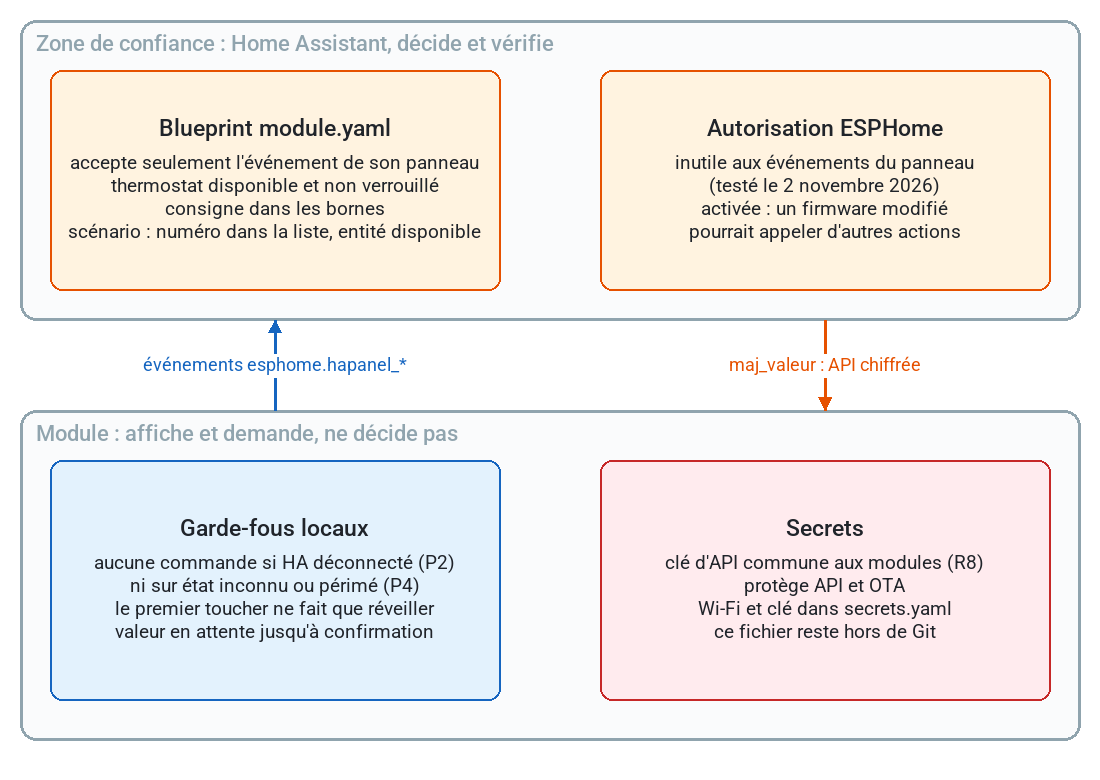
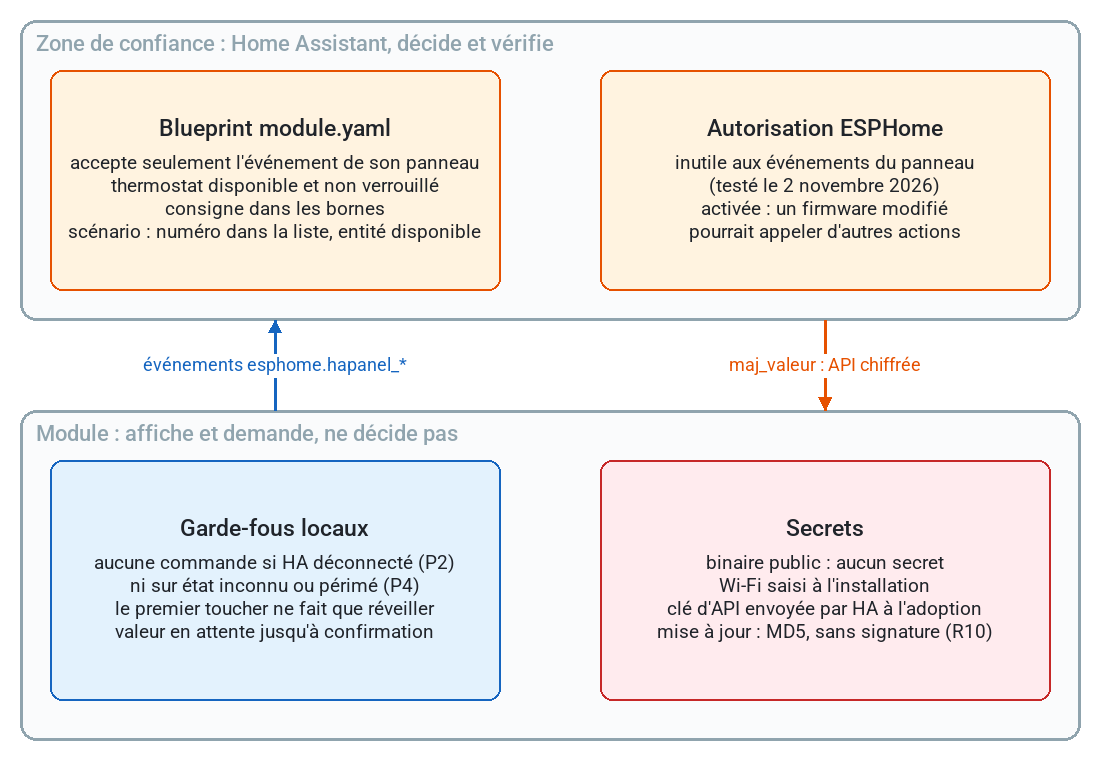
D037 revisee : binaire public pour tous les modules ; D039 et D040 acceptees
Cahier J4, J5, J11, J13 OK ; J9, J10 et J14 reportes au guide
d'installation (rang 3 du TODO). Schemas d'architecture regeneres
(contexte, packages, matrice, compilation, securite). VERSION 0.8.0.

Changed region(s): [[0.5873, 0.7077, 0.8964, 0.8308]]

diff --git a/tools/generer_schemas_architecture.py b/tools/generer_schemas_architecture.py
@@ -109,47 +109,57 @@ def sequence(nom, acteurs, etapes, largeur=1100):
 def contexte():
     s = S(1100, 760)
     s.zone(20, 20, 1060, 540, "Réseau local de la maison")
-    s.boite(50, 90, 290, 200, "Modules HAPanel", "un même binaire pour tous\nhapanel-xxxxxx (MAC)\nécran, tactile, LED, LDR\naucune entité connue", BLEU, B_BLEU)
+    s.boite(50, 90, 290, 200, "Modules HAPanel", "binaire public, sans secret\nhapanel-xxxxxx (MAC)\nécran, tactile, LED, LDR\naucune entité connue", BLEU, B_BLEU)
     s.boite(450, 90, 300, 200, "Home Assistant", "intégration ESPHome\nautomatisation par module\ndepuis le blueprint unique\nmodule.yaml", ORANGE, B_ORANGE)
     s.boite(840, 90, 210, 200, "Appareils", "thermostats\nscènes, scripts\ncalendriers\nmétéo, capteurs", VERT, B_VERT)
     s.fleche([(340, 150), (450, 150)], B_BLEU, "événements", (395, 128))
     s.fleche([(450, 230), (340, 230)], B_ORANGE, "maj_valeur", (395, 252))
     s.etiquette((395, 310), "API native chiffrée (Noise)", DOUX)
     s.fleche([(750, 190), (840, 190)], B_VERT, double=True)
-    s.boite(50, 400, 290, 130, "PC de développement", "ESPHome CLI figé\ntools/build.ps1", GRIS)
-    s.fleche([(195, 400), (195, 290)], DOUX, "OTA chiffrée\nou USB", (280, 345))
-    s.boite(450, 400, 210, 130, "secrets.yaml", "Wi-Fi, clé d'API\nignoré par Git", ROUGE, B_ROUGE)
+    s.boite(50, 400, 290, 130, "PC de l'atelier", "ESPHome CLI figé\nmodules de test seulement", GRIS)
+    s.fleche([(195, 400), (195, 290)], DOUX, "USB, ou OTA\n(atelier)", (280, 345))
+    s.boite(450, 400, 210, 130, "secrets.yaml", "atelier seulement\nignoré par Git", ROUGE, B_ROUGE)
     s.fleche([(450, 465), (340, 465)], B_ROUGE, "à la compilation", (395, 442))
-    s.boite(250, 620, 600, 110, "GitHub : cnuma/HAPanel", "YAML, blueprint et documentation : seule source de vérité", VIOLET, B_VIOLET)
+    s.boite(250, 620, 600, 110, "GitHub : cnuma/HAPanel", "source de vérité ; Actions publie binaire et manifeste\n(Releases), lus par l'entité Firmware de chaque module", VIOLET, B_VIOLET)
     s.fleche([(195, 620), (195, 530)], B_VIOLET, "git", (225, 590))
+    s.fleche([(250, 700), (32, 700), (32, 190), (50, 190)], B_VIOLET)
+    s.etiquette((140, 724), "mise à jour HTTPS", B_VIOLET)
     s.fleche([(700, 620), (700, 290)], B_VIOLET, "import du blueprint (URL)", (860, 590))
     s.sauver("01_contexte.png")
 
 
 def packages():
-    s = S(1100, 900)
-    s.boite(250, 20, 600, 80, "hapanel_banc.yaml", "production + debug mémoire + journaux DEBUG", GRIS)
-    s.fleche([(550, 100), (550, 150)])
-    s.boite(250, 150, 600, 80, "hapanel.yaml", "assemble les packages et les substitutions", BLEU, B_BLEU)
-    s.d.line([(550, 230), (550, 265)], fill=TRAIT, width=3)
-    s.d.line([(150, 265), (950, 265)], fill=TRAIT, width=3)
+    s = S(1100, 965)
+    s.boite(20, 20, 320, 80, "hapanel_banc.yaml", "atelier : + debug, journaux", GRIS)
+    s.boite(390, 20, 320, 80, "hapanel.yaml", "atelier : secrets compilés", GRIS)
+    s.boite(760, 20, 320, 80, "hapanel_public.yaml", "maison : aucun secret", VIOLET, B_VIOLET)
+    s.fleche([(340, 60), (390, 60)])
+    s.boite(20, 170, 320, 80, "acces_prive.yaml", "Wi-Fi, clé, OTA du PC", ROUGE, B_ROUGE)
+    s.boite(390, 170, 320, 80, "application.yaml", "toutes les fonctions", BLEU, B_BLEU)
+    s.boite(760, 170, 320, 80, "acces_public.yaml", "Improv, portail, mise à jour", VIOLET, B_VIOLET)
+    s.fleche([(450, 100), (180, 170)])
+    s.fleche([(550, 100), (550, 170)])
+    s.fleche([(840, 100), (660, 170)], B_VIOLET)
+    s.fleche([(920, 100), (920, 170)], B_VIOLET)
+    s.d.line([(550, 250), (550, 330)], fill=TRAIT, width=3)
+    s.d.line([(150, 330), (950, 330)], fill=TRAIT, width=3)
     for x in (150, 550, 950):
-        s.fleche([(x, 265), (x, 300)])
-    s.zone(20, 300, 260, 390, "Socle")
-    s.boite(40, 345, 220, 150, "base.yaml", "nœud, Wi-Fi, API,\nOTA, journaux,\nidentité de build", GRIS)
-    s.boite(40, 515, 220, 150, "hardware.yaml", "seul propriétaire\ndes broches et bus\n(G2)", GRIS)
-    s.zone(300, 300, 500, 390, "Écran : pages dans l'ordre d'inclusion")
-    pages = [("accueil", 320, 350), ("météo", 560, 350), ("planning", 320, 430), ("scénarios", 560, 430),
-             ("menu", 320, 510), ("réglages", 560, 510)]
+        s.fleche([(x, 330), (x, 365)])
+    s.zone(20, 365, 260, 390, "Socle")
+    s.boite(40, 410, 220, 150, "base.yaml", "nœud, plateforme,\njournaux, réglages,\nidentité de build", GRIS)
+    s.boite(40, 580, 220, 150, "hardware.yaml", "seul propriétaire\ndes broches et bus\n(G2)", GRIS)
+    s.zone(300, 365, 500, 390, "Écran : pages dans l'ordre d'inclusion")
+    pages = [("accueil", 320, 415), ("météo", 560, 415), ("planning", 320, 495), ("scénarios", 560, 495),
+             ("menu", 320, 575), ("réglages", 560, 575)]
     for t, x, y in pages:
         s.boite(x, y, 220, 65, t + ".yaml", "", ORANGE, B_ORANGE)
-    s.boite(320, 595, 220, 65, "lvgl.yaml", "", BLEU, B_BLEU)
-    s.etiquette((670, 627), "lvgl.yaml : À propos,\nnavigation, connexion.\nAccueil inclus d'abord :\npage de démarrage.", DOUX, taille=16)
-    s.zone(820, 300, 260, 390, "Services")
-    s.boite(840, 345, 220, 150, "liaison_ha.yaml", "action maj_valeur,\nétat et péremption\ndes valeurs", VERT, B_VERT)
-    s.boite(840, 515, 220, 150, "led_veille.yaml", "veille, retour accueil,\nLED, rétroéclairage,\nLDR", VERT, B_VERT)
-    s.zone(20, 720, 1060, 160, "Couplage par identifiants ESPHome")
-    s.etiquette((550, 800), "liaison_ha écrit les globals puis appelle accueil / meteo / planning / scenarios_rafraichir.\nLes pages lisent ces globals et ha_connecte_affiche. accueil_rafraichir calcule la couleur de la LED.\nled_veille lit ldr_tension (hardware) et pilote retroeclairage et page_accueil.", ENCRE, taille=20)
+    s.boite(320, 660, 220, 65, "lvgl.yaml", "", BLEU, B_BLEU)
+    s.etiquette((670, 692), "lvgl.yaml : À propos,\nnavigation, connexion.\nAccueil inclus d'abord :\npage de démarrage.", DOUX, taille=16)
+    s.zone(820, 365, 260, 390, "Services")
+    s.boite(840, 410, 220, 150, "liaison_ha.yaml", "action maj_valeur,\nétat et péremption\ndes valeurs", VERT, B_VERT)
+    s.boite(840, 580, 220, 150, "led_veille.yaml", "veille, retour accueil,\nLED, rétroéclairage,\nLDR", VERT, B_VERT)
+    s.zone(20, 785, 1060, 160, "Couplage par identifiants ESPHome")
+    s.etiquette((550, 865), "liaison_ha écrit les globals puis appelle accueil / meteo / planning / scenarios_rafraichir.\nLes pages lisent ces globals et ha_connecte_affiche. accueil_rafraichir calcule la couleur de la LED.\nled_veille lit ldr_tension (hardware) et pilote retroeclairage et page_accueil.", ENCRE, taille=20)
     s.sauver("02_packages.png")
 
 
@@ -262,17 +272,18 @@ def navigation():
 
 def build():
     s = S(1100, 900)
-    entrees = [(30, "VERSION", "0.6.0-dev"), (295, "Git", "SHA, +modif"), (560, "secrets.yaml", "hors dépôt"), (825, "requirements.txt", "ESPHome figé")]
+    version = (RACINE / "VERSION").read_text(encoding="utf-8").split()[0]
+    entrees = [(30, "VERSION", version), (295, "Git", "étiquette v…, SHA"), (560, "secrets.yaml", "atelier seulement"), (825, "requirements.txt", "ESPHome figé")]
     for x, t, d in entrees:
         s.boite(x, 30, 245, 100, t, d, GRIS)
-    s.boite(150, 210, 800, 110, "tools/build.ps1", "injecte version et git_sha par substitution, appelle esphome config / compile / upload / logs", BLEU, B_BLEU)
+    s.boite(150, 210, 800, 110, "GitHub Actions ou tools/build.ps1", "injectent version et git_sha ; Actions compile hapanel_public.yaml\nà chaque étiquette, build.ps1 les configurations de l'atelier", BLEU, B_BLEU)
     for x in (152, 417):
         s.fleche([(x, 130), (x if x > 200 else 200, 210)])
     s.fleche([(682, 130), (682, 210)])
     s.fleche([(947, 130), (900, 210)])
-    s.boite(150, 390, 800, 90, "firmware.bin", "code C++ généré, compilé par ESP-IDF", ORANGE, B_ORANGE)
+    s.boite(150, 390, 800, 90, "firmware.bin", "compilé par ESP-IDF ; public : Release avec manifeste (version, MD5)", ORANGE, B_ORANGE)
     s.fleche([(550, 320), (550, 390)])
-    s.boite(150, 550, 800, 90, "OTA chiffrée vers le module", "clé de l'API ; bloc secteur 1 A", VIOLET, B_VIOLET)
+    s.boite(150, 550, 800, 90, "Maison : entité Firmware de HA", "le module télécharge depuis GitHub ; atelier : OTA chiffrée du PC ; USB en secours", VIOLET, B_VIOLET)
     s.fleche([(550, 480), (550, 550)])
     s.boite(150, 710, 370, 150, "Nouveau binaire", "« Boot seems successful »\naprès 60 s\nversion et SHA relus", VERT, B_VERT)
     s.boite(580, 710, 370, 150, "Rollback du bootloader", "échec de démarrage :\nretour silencieux au binaire\nprécédent (R7)", ROUGE, B_ROUGE)
@@ -288,7 +299,7 @@ def securite():
     s.boite(600, 70, 450, 220, "Autorisation ESPHome", "inutile aux événements du panneau\n(testé le 2 novembre 2026)\nactivée : un firmware modifié\npourrait appeler d'autres actions", ORANGE, B_ORANGE)
     s.zone(20, 410, 1060, 330, "Module : affiche et demande, ne décide pas")
     s.boite(50, 460, 450, 240, "Garde-fous locaux", "aucune commande si HA déconnecté (P2)\nni sur état inconnu ou périmé (P4)\nle premier toucher ne fait que réveiller\nvaleur en attente jusqu'à confirmation", BLEU, B_BLEU)
-    s.boite(600, 460, 450, 240, "Secrets", "clé d'API commune aux modules (R8)\nprotège API et OTA\nWi-Fi et clé dans secrets.yaml\nce fichier reste hors de Git", ROUGE, B_ROUGE)
+    s.boite(600, 460, 450, 240, "Secrets", "binaire public : aucun secret\nWi-Fi saisi à l'installation\nclé d'API envoyée par HA à l'adoption\nmise à jour : MD5, sans signature (R10)", ROUGE, B_ROUGE)
     s.fleche([(275, 410), (275, 320)], B_BLEU, "événements esphome.hapanel_*", (275, 365))
     s.fleche([(825, 320), (825, 410)], B_ORANGE, "maj_valeur : API chiffrée", (825, 365))
     s.sauver("13_securite.png")
@@ -405,7 +416,8 @@ def yaml_matrice():
                       ("pages/menu", ORANGE, B_ORANGE), ("pages/reglages", ORANGE, B_ORANGE),
                       ("lvgl", BLEU, B_BLEU),
                       ("liaison_ha", VERT, B_VERT), ("led_veille", VERT, B_VERT),
-                      ("message_accueil", ORANGE, B_ORANGE)]
+                      ("message_accueil", ORANGE, B_ORANGE),
+                      ("acces_prive", ROUGE, B_ROUGE), ("acces_public", VIOLET, B_VIOLET)]
     lignes, autres = [], []
     for chemin, fond, bord in roles_fichiers:
         texte = (RACINE / "packages" / f"{chemin}.yaml").read_text(encoding="utf-8")
@@ -415,9 +427,18 @@ def yaml_matrice():
         if hors:
             autres.append(f"{', '.join(hors)} ({nom})")
         lignes.append((nom, " ".join(blocs + (["autres"] if hors else [])), fond, bord))
-    s = S(1260, 950)
+    # Liste « autres » coupee en lignes d'au plus 115 caracteres.
+    lignes_autres, ligne = [], "autres : "
+    for i, a in enumerate(autres):
+        morceau = a + (" ; " if i < len(autres) - 1 else ".")
+        if len(ligne) + len(morceau) > 115:
+            lignes_autres.append(ligne.rstrip())
+            ligne = ""
+        ligne += morceau
+    lignes_autres.append(ligne)
     x0, y0, lc, hl = 255, 110, 76, 52
     yf = y0 + len(lignes) * hl
+    s = S(1260, int(yf + 190 + 27 * len(lignes_autres)))
     xf = x0 + len(colonnes) * lc
     # Axes : titre des colonnes centre au-dessus d'elles, titre des lignes
     # vertical a leur gauche, centre sur leur hauteur ; un trait montre l'etendue.
@@ -443,13 +464,15 @@ def yaml_matrice():
     s.d.line([(70, yf), (xf, yf)], fill="#CFD8DC", width=1)
     # Legende : une case = le fichier declare ce bloc ; couleur = role du fichier.
     s.d.text((20, yf + 40), "Légende : une case = ce fichier déclare ce bloc. La couleur donne le rôle du fichier :", fill=ENCRE, font=f(19, True), anchor="lm")
-    roles = [(GRIS, "#607D8B", "socle : carte, Wi-Fi, API"), (ORANGE, B_ORANGE, "écran affiché"),
-             (BLEU, B_BLEU, "graphisme commun, navigation"), (VERT, B_VERT, "service sans écran")]
-    for cx, (fond, bord, texte) in zip([30, 320, 530, 880], roles):
-        s.d.rounded_rectangle([cx, yf + 68, cx + 46, yf + 100], 7, fill=fond, outline=bord, width=2)
-        s.d.text((cx + 56, yf + 84), texte, fill=ENCRE, font=f(18), anchor="lm")
+    roles = [(GRIS, "#607D8B", "socle : nœud, carte"), (ORANGE, B_ORANGE, "écran affiché"),
+             (BLEU, B_BLEU, "graphisme commun"), (VERT, B_VERT, "service sans écran"),
+             (ROUGE, B_ROUGE, "accès atelier"), (VIOLET, B_VIOLET, "accès public")]
+    for cx, (fond, bord, texte) in zip([30, 265, 450, 680, 900, 1080], roles):
+        s.d.rounded_rectangle([cx, yf + 68, cx + 40, yf + 100], 7, fill=fond, outline=bord, width=2)
+        s.d.text((cx + 48, yf + 84), texte, fill=ENCRE, font=f(17), anchor="lm")
     s.d.text((20, yf + 135), "Abréviations : subst. = substitutions ; tactile = touchscreen.", fill=DOUX, font=f(17), anchor="lm")
-    s.d.text((20, yf + 162), "autres : " + " ; ".join(autres) + ".", fill=DOUX, font=f(17), anchor="lm")
+    for i, t in enumerate(lignes_autres):
+        s.d.text((20, yf + 162 + 27 * i), t, fill=DOUX, font=f(17), anchor="lm")
     s.sauver("20_yaml_matrice.png")
 
 

diff --git a/docs/CAHIER_DE_TESTS.md b/docs/CAHIER_DE_TESTS.md
@@ -42,6 +42,7 @@ aucun. Chaque ligne se coche **OK** ou **KO** ; en cas de KO, noter ce qui a ét
 | 5 novembre 2026 | `v0.8.0-dev.1`, puis local `0.8.0-dev.3-usb` | J6 | **J6 KO avec dev.1** : entité Firmware « À jour », versions vides ; au démarrage « HTTP_CLIENT: Out of buffer » puis « Failed to fetch manifest » ; « Mettre à jour l'entité » de HA ne relance pas la vérification | `buffer_size_tx: 2048` ; binaire local flashé par USB : démarrage sans erreur. Publication `v0.8.0-dev.3`, J6 à refaire |
 | 5 novembre 2026 | `0.8.0-dev.3-usb` → `v0.8.0-dev.4-wifi` (`670e30e`) | J6, J7, J8 | **J6 OK** : HA juge `0.8.0-dev.3-usb` et `0.8.0-dev.3` incomparables (« À jour », `update.install` refusé) ; avec `0.8.0-dev.4-wifi`, « Mise à jour disponible », **Mettre à jour** : téléchargement par Wi-Fi depuis GitHub en 16 s, « Update complete », redémarrage, Wi-Fi et HA retrouvés sans rien ressaisir, À propos en `0.8.0-dev.4-wifi`. Aucune erreur au journal. Accueil « Intérieur » : blueprint de `main`, sans la clé `piece` | Versions sans suffixe (§ 1 de `DEPLOIEMENT_PUBLIC.md`). Le binaire est lu par `releases/latest/…` : une Release publiée entre la vérification et l'installation ferait échouer le MD5 (sans dégât) ; lien vers l'étiquette dans le manifeste, corrigé dans `publication.yml` (effet à la prochaine Release). J7 et J8 OK, constatés par le propriétaire |
 | 5 novembre 2026 | `v0.8.0-dev.4-wifi`, blueprint de la branche | J12 | **J12 OK** : blueprint importé depuis la branche, « Nom de la pièce » vide : l'accueil affiche « Cuisine » | — |
+| 5 novembre 2026 | `v0.8.0-dev.4-wifi` | J4, J5, J11, J13 | **OK** : clé enregistrée dans le module et dans HA, gardée après la mise à jour ; coupure d'alimentation sans rien ressaisir ; nom long coupé proprement ; depuis le PC, port de l'OTA (3232) fermé, API (6053) ouverte | J9, J10 et J14 reportés au guide d'installation, qui passera par ces écrans |
 | 4 novembre 2026 | `4091687` | I | Titres visibles. Ligne du haut **bien plus fréquente à 20 MHz**, pas sur toute la largeur ; point du milieu qui clignote quand le bouton maison est affiché ; ligne au passage du Menu à une autre page | Diagnostic au banc : à l'écran immobile, aucun envoi de LVGL, donc pas un dessin du programme. Idée du propriétaire retenue : la dernière rangée de pixels réapparaît sur la première (le point est dans l'axe du bouton maison ; la ligne vient avec le redessin complet, dont le dernier morceau va jusqu'à la rangée 319). 40 MHz rétabli ; barre du haut et barre du bas décalées de 2 px des bords (I11 à refaire) |
 | 4 novembre 2026 | `a3a8864` | I | Vidéo : **titre de la page absent** de la barre ; ligne claire fugace sur la première ligne de l'écran (une image, environ toutes les 4 s) et point fixe en haut au milieu | Titre : la couche commune n'hérite pas du texte blanc des pages, texte sombre sur gris ; corrigé (couleur sur la barre). Ligne : hypothèse d'écriture parasite sur le bus de l'écran, essai à 20 MHz au lieu de 40 (I11) |
 | 4 novembre 2026 | `2f00f00` | I | Premier aperçu : fond bleu autour du ☰ disgracieux, ☰ préféré à gauche avant le titre ; **ligne blanche qui clignote en haut de l'écran** | Corrigé (`a3a8864`) : ☰ à gauche, sans fond. Ligne blanche : à décrire (quand, quelle page, toute la largeur ?) |
@@ -225,7 +226,7 @@ ensuite l'automatisation du module et l'enregistrer.
 | I11 | Observer 1 min la barre du haut sur Réglages, sur l'accueil, puis passer du Menu à chaque page | Aucune ligne ni point parasite en haut de l'écran (2 rangées noires en haut et en bas) | `feature/barre-etat` (fusionnée) | OK 4 nov. |
 | I12 | Toucher le ☰ dix fois, vite, un peu à côté de l'icône (dessous, à droite) | Le Menu s'ouvre à chaque fois | `feature/barre-etat` (fusionnée) | OK 4 nov. |
 
-## J — Déploiement public, maquette (D039)
+## J — Déploiement public (D039)
 
 Binaires publiés par GitHub (`hapanel_public.yaml`), sur une carte qui n'est pas le
 module de banc. Procédure : `docs/DEPLOIEMENT_PUBLIC.md`.
@@ -235,13 +236,14 @@ module de banc. Procédure : `docs/DEPLOIEMENT_PUBLIC.md`.
 | J1 | Publication : pousser l'étiquette `v0.8.0-dev.1` (§ 1 de `DEPLOIEMENT_PUBLIC.md`) | Release créée, marquée Latest, avec `hapanel-factory.bin`, `hapanel-ota.bin` et `manifest.json` | `feature/poc-deploiement` | OK 5 nov. |
 | J2 | Nouvelle carte : première installation par web.esphome.io, Wi-Fi par Improv (§ 2) | Le module démarre, l'écran d'accueil s'affiche, le module rejoint le Wi-Fi | `feature/poc-deploiement` | OK 5 nov. |
 | J3 | Adoption dans HA (§ 3) | Appareil découvert ; **aucune clé demandée** (sinon noter le message) ; entités présentes, dont « Firmware » et « Version » (`0.8.0-dev.1 (sha)`) | `feature/poc-deploiement` | OK 5 nov. |
-| J4 | Après J3, journaux du module ou une seconde adoption depuis un autre HA | La clé est enregistrée (« Noise PSK saved ») ; une connexion sans cette clé est refusée | `feature/poc-deploiement` | |
-| J5 | Couper et rétablir l'alimentation | Le module rejoint le Wi-Fi et HA sans rien ressaisir | `feature/poc-deploiement` | |
+| J4 | Après J3, journaux du module ou une seconde adoption depuis un autre HA | La clé est enregistrée (« Noise PSK saved ») ; une connexion sans cette clé est refusée | `feature/poc-deploiement` | OK 5 nov. |
+| J5 | Couper et rétablir l'alimentation | Le module rejoint le Wi-Fi et HA sans rien ressaisir | `feature/poc-deploiement` | OK 5 nov. |
 | J6 | Publier `v0.8.0-dev.3`, redémarrer le module, puis dans HA : entité Firmware › Installer (§ 4) | « Mise à jour disponible 0.8.0-dev.3 » ; téléchargement depuis GitHub sans erreur ; redémarrage | `feature/poc-deploiement` | OK 5 nov. (avec `0.8.0-dev.4-wifi`) |
 | J7 | Après J6 | Version `0.8.0-dev.2` ; Wi-Fi et HA reconnectés sans rien ressaisir ; réglages du module (LED, intensité) conservés | `feature/poc-deploiement` | OK 5 nov. (avec `0.8.0-dev.4-wifi`) |
 | J8 | Pendant J6, journaux par USB ; page À propos avant et après | Pas de manque de mémoire ni de redémarrage pendant le téléchargement ; noter la mémoire libre (G6) | `feature/poc-deploiement` | OK 5 nov. |
-| J9 | Nouvelle carte sans Improv : point d'accès `hapanel-xxxxxx` depuis un téléphone (§ 2) | Portail captif, choix du réseau, le module rejoint le Wi-Fi | `feature/poc-deploiement` | |
-| J10 | Laisser une carte effacée sans Wi-Fi 16 min, puis tenter le point d'accès | Point d'accès fermé après 15 min ; rouvert après une coupure d'alimentation | `feature/poc-deploiement` | |
-| J11 | Depuis le PC, `esphome upload` vers un module public par le réseau | Refusé : le binaire public n'a pas d'OTA depuis un PC | `feature/poc-deploiement` | |
+| J9 | Nouvelle carte sans Improv : point d'accès `hapanel-xxxxxx` depuis un téléphone (§ 2) | Portail captif, choix du réseau, le module rejoint le Wi-Fi | guide d'installation (rang 3 du TODO) | |
+| J10 | Laisser une carte effacée sans Wi-Fi 16 min, puis tenter le point d'accès | Point d'accès fermé après 15 min ; rouvert après une coupure d'alimentation | guide d'installation (rang 3 du TODO) | |
+| J11 | Depuis le PC, `esphome upload` vers un module public par le réseau | Refusé : le binaire public n'a pas d'OTA depuis un PC | `feature/poc-deploiement` | OK 5 nov. (port 3232 fermé, API 6053 ouverte) |
 | J12 | Après J6 : réimporter le blueprint depuis la branche (`CONFIGURATION.md` § 2), laisser « Nom de la pièce » vide, enregistrer l'automatisation | L'accueil affiche la zone du thermomètre (« Cuisine ») au lieu de « Séjour » | `feature/poc-deploiement` | OK 5 nov. |
-| J13 | Saisir « Chambre des parents » dans « Nom de la pièce » | « Chambre des pa… » ou le nom coupé proprement, sans chevaucher « indisponible » à droite | `feature/poc-deploiement` | |
+| J13 | Saisir « Chambre des parents » dans « Nom de la pièce » | « Chambre des pa… » ou le nom coupé proprement, sans chevaucher « indisponible » à droite | `feature/poc-deploiement` | OK 5 nov. |
+| J14 | Module de production : reflasher le binaire public par USB (`hapanel-factory.bin`), Wi-Fi par Improv, puis HA | Le module retrouve HA ; si HA demande une clé ou crée un nouvel appareil, le noter et réassocier l'automatisation du module | guide d'installation (rang 3 du TODO) | |

diff --git a/docs/TODO.md b/docs/TODO.md
@@ -15,10 +15,10 @@ Liste unique du reste à faire (G14).
 | Prio | Sujet | Dépend de | Branche | Pourquoi à ce rang |
 |---|---|---|---|---|
 | 1 | Message d'accueil : confirmer B3 (même texte deux fois) ; décider s'il faut empêcher deux fois de suite le même message (entrée texte dans HA, procédure G11) | Cahier B3 refait | à créer | Ne touche que le blueprint de la maison ; à trancher avant de l'enrichir (rangs 9 et 11). |
-| 2 | Sécurité : décider de laisser ou non l'autorisation des actions HA sur chaque module (surface plus petite, `08`) ; évaluer l'usurpation de `device_id` (un firmware modifié, avec la clé d'API, pourrait se faire passer pour un autre panneau) et l'inscrire au `08` | — | `docs/…` | À décider avant d'ajouter des commandes (infrarouge) et la mise à jour par HA (rang 3), sinon elles seraient à reprendre. |
-| 3 | Mises à jour du parc depuis HA (D037, option C) : **maquette en cours (D039)** : binaire public sans secret publié par GitHub Actions, entité « Firmware », Wi-Fi saisi à l'installation, clé reçue de HA ; mise à jour par Wi-Fi depuis HA validée le 5 novembre 2026 (J6 à J8) ; restent J4, J5, J9 à J11, J13. Ensuite : réviser D037 (hébergement GitHub), mode d'installation (bouton ou automatisation), schémas d'architecture | Rang 2 (surface de la mise à jour) | `feature/poc-deploiement` | À installer avant de multiplier les modules : l'infrarouge et la suite se déploieront par ce chemin. |
-| 4 | Mise à jour depuis l'écran (demande du propriétaire du 5 novembre 2026, décision à rédiger) : 1. icône violette dans la barre d'état quand une mise à jour est disponible ; 2. bouton « Rechercher une mise à jour » sur la page À propos ; 3. recherche chaque nuit à 3 h (au lieu de toutes les 6 h ; heure de HA) ; 4. bouton violet dans le Menu pour lancer la mise à jour, avec confirmation puis message « Mise à jour en cours, module indisponible ». Binaire public seulement (entité `maj_firmware`) : le binaire privé n'affiche rien | Rang 3 (maquette J6 validée le 5 novembre 2026) | `feature/poc-deploiement` ou suivante | Complète l'installation sans HA ; place dans la barre à vérifier (entre le titre et la disquette). |
-| 5 | Projet publiable (D038) : cadrer avec le propriétaire la licence (dépôt déjà public, sans licence), la relecture de la doc (retirer le personnel), la page d'installation, l'adoption par chaque utilisateur ; puis Wi-Fi saisi à l'installation (Improv par USB, portail captif), binaire générique sans secret publié sur GitHub | Rang 3 (même chemin de mise à jour) | à créer | Orientation du projet : à cadrer tôt pour que l'infrarouge et la suite ne mettent rien de propre à la maison dans le firmware. |
+| 2 | Sécurité : décider de laisser ou non l'autorisation des actions HA sur chaque module (surface plus petite, `08`) ; évaluer l'usurpation de `device_id` (un firmware modifié, avec la clé d'API, pourrait se faire passer pour un autre panneau) et l'inscrire au `08` | — | `docs/…` | À décider avant d'ajouter des commandes (infrarouge) et la mise à jour par HA (D039, faite : surface déjà au `08`), sinon elles seraient à reprendre. |
+| 3 | Guide d'installation pour débutant (demande du propriétaire du 5 novembre 2026) : remplacer la procédure de technicien par un pas à pas avec une capture d'écran précise à chaque étape (téléchargement, web.esphome.io, Wi-Fi par Improv, adoption dans HA, blueprint, mise à jour) ; captures prises par le propriétaire en reflashant le premier module de production (cahier J14), recadrées sans nom de réseau, adresse ni clé (G9) ; tester aussi le point d'accès (J9, J10) | — | `docs/guide-installation` | Le premier module de production passe au binaire public (D037 révisée) : les captures se prennent à ce moment. Condition de la publication (rang 5). |
+| 4 | Mise à jour depuis l'écran (demande du propriétaire du 5 novembre 2026, décision à rédiger) : 1. icône violette dans la barre d'état quand une mise à jour est disponible ; 2. bouton « Rechercher une mise à jour » sur la page À propos ; 3. recherche chaque nuit à 3 h (au lieu de toutes les 6 h ; heure de HA) ; 4. bouton violet dans le Menu pour lancer la mise à jour, avec confirmation puis message « Mise à jour en cours, module indisponible ». Binaire public seulement (entité `maj_firmware`) : le binaire privé de l'atelier n'affiche rien | D039 (acceptée) | à créer | Complète l'installation sans HA ; place dans la barre à vérifier (entre le titre et la disquette). |
+| 5 | Projet publiable (D038) : cadrer avec le propriétaire la licence (dépôt déjà public, sans licence), la relecture de la doc (retirer le personnel), l'adoption par chaque utilisateur ; binaire générique, Wi-Fi saisi à l'installation et publication sur GitHub faits (D039) | Rang 3 (guide d'installation) | à créer | Orientation du projet : à cadrer tôt pour que l'infrarouge et la suite ne mettent rien de propre à la maison dans le firmware. |
 | 6 | Indépendance du matériel (demande du propriétaire du 5 novembre 2026, décision à rédiger ; l'ESP32-2432S024C de 2,4 pouces semble ne plus être fabriqué) : 1. interface construite selon la taille de l'écran déclarée dans les paramètres, et non plus calée sur 320 × 240 ; 2. GPIO configurables : écran, tactile, diode infrarouge, LED d'état, LDR ; 3. pilotes d'écran et de tactile configurables ; 4. au total, un firmware indépendant de la carte. Point à trancher : ESPHome fixe pilotes et broches à la compilation, donc « paramètres » veut dire un fichier de carte par modèle (substitutions et package), et un binaire public par modèle de carte | Rang 5 (cadrage du public visé) ; choix des nouvelles cartes par le propriétaire | à créer | Avant l'infrarouge, dont la broche doit déjà être un paramètre ; chaque page écrite d'ici là serait sinon à reprendre. |
 | 7 | Infrarouge (P5) : 1. marque et modèle exacts des clims (Midea ou compatible pour la chambre des parents) et emplacement des panneaux ; 2. schéma de la diode sur GPIO22 (transistor, résistances, 3,3 V, connecteur avec GND) ; 3. code (`remote_transmitter`, `midea_ir`, repris de `clim-parents`) | Rang 2 ; rang 6 (broche en paramètre) ; réponses du propriétaire au point 1 | à créer | Plus gros chantier : sur une base stable et des règles de sécurité fixées. Le matériel avant le code. En attendant les réponses, passer au rang 8. |
 | 8 | Documentation technique, lots 3 à 6 : `lvgl.md`, `liaison_ha.md` ; `led_veille.md`, `message_accueil.md` ; `pages/` ; blueprints (avec extension du script de contrôle) | Rang 6 (pages reprises) | `docs/…` | Après l'indépendance du matériel, qui modifie toutes les pages. |
@@ -129,3 +129,12 @@ Liste unique du reste à faire (G14).
 - [x] Mise à jour depuis l'écran demandée le 5 novembre 2026 : rang 4.
 - [x] Indépendance du matériel demandée le 5 novembre 2026 (2,4 pouces introuvable) :
       rang 6.
+
+### P7 — Déploiement public (5 novembre 2026)
+
+- [x] Binaire public sans secret publié par GitHub Actions, mise à jour par Wi-Fi
+      depuis l'entité « Firmware » de HA, nom de la pièce par le blueprint (D039,
+      D040) : cahier J OK (J9, J10, J14 au rang 3), fusionné dans `main` le
+      5 novembre 2026 ; `VERSION` 0.8.0.
+- [x] D037 révisée : binaire public pour tous les modules de la maison, USB en
+      secours ; configurations privées pour l'atelier seulement.

diff --git a/docs/ARCHITECTURE.md b/docs/ARCHITECTURE.md
@@ -53,9 +53,9 @@ le tactile et le réseau (G1). Ces lambdas restent du C++, inséré tel quel dan
 
 | Fichier | Lignes | Responsabilité |
 |---|---|---|
-| `hapanel.yaml` | 17 | Production : substitutions, fonctions (`application`) et accès privé |
-| `hapanel_banc.yaml` | 33 | Banc : production, plus mémoire mesurée, journaux DEBUG et dossier de compilation propre |
-| `hapanel_public.yaml` | 23 | Binaire public sans secret : fonctions et accès public (D039, maquette) |
+| `hapanel.yaml` | 17 | Atelier (modules de test) : substitutions, fonctions (`application`) et accès privé |
+| `hapanel_banc.yaml` | 33 | Banc de l'atelier : `hapanel.yaml`, plus mémoire mesurée, journaux DEBUG et dossier de compilation propre |
+| `hapanel_public.yaml` | 23 | Modules de la maison : binaire public sans secret, fonctions et accès public (D039, D037 révisée) |
 | `packages/application.yaml` | 19 | Liste ordonnée des fichiers de fonctions, commune aux configurations |
 | `packages/acces_prive.yaml` | 15 | Wi-Fi, clé de l'API et OTA depuis le PC, lus dans `secrets.yaml` |
 | `packages/acces_public.yaml` | 47 | Wi-Fi saisi à l'installation, clé reçue de HA, mises à jour depuis GitHub |
@@ -71,7 +71,7 @@ le tactile et le réseau (G1). Ces lambdas restent du C++, inséré tel quel dan
 | `packages/pages/scenarios.yaml` | 365 | Boutons et lancement |
 | `packages/pages/menu.yaml` | 126 | Tuiles de navigation |
 | `packages/pages/reglages.yaml` | 216 | Réglages de la LED et de l'écran, synchronisés avec HA, cadenas si imposés (D031) |
-| `secrets.yaml` | | Wi-Fi et clé d'API des modules privés, hors de Git (G9) |
+| `secrets.yaml` | | Wi-Fi et clé d'API des modules de l'atelier, hors de Git (G9) |
 
 **Pour lire le projet :** `hapanel.yaml`, puis `liaison_ha.yaml`, puis `scenarios.yaml`, qui est la
 page la plus simple à commander. `accueil.yaml` est la plus dense et se lit en dernier.
@@ -588,18 +588,18 @@ message au toucher, après 3 minutes ou à la déconnexion de HA (P2).
 
 ![Chaîne de compilation](images/architecture/12_build.png)
 
-- **Identité :** `tools/build.ps1` injecte `VERSION` et le SHA. Le suffixe `+modif` signale un
+- **Identité :** GitHub Actions (binaire public) et `tools/build.ps1` (atelier) injectent `VERSION` et le SHA. Le suffixe `+modif` signale un
   binaire qui ne correspond à aucun commit et ne vaut pas validation (G5).
 - **Version figée :** ESPHome est fixé par `requirements.txt` (D005).
 - **Vérification :** après une OTA, relire la version et le SHA, puis attendre « Boot seems
   successful », car un échec peut ramener sans bruit au binaire précédent.
 - **Blueprint :** `source_url` pointe sur `main`. Il suit Git et non le firmware : un changement de
   clés demande de mettre à jour les deux.
-- **Dossier de compilation :** production `.esphome/build/hapanel`, banc `hapanel_banc`, public
+- **Dossier de compilation :** atelier `.esphome/build/hapanel`, banc `hapanel_banc`, public
   `hapanel_public` : passer de l'un à l'autre ne recompile pas tout.
-- **Binaire public (D039, maquette) :** une étiquette `v<version>` lance GitHub Actions, qui publie
-  une Release (binaire complet, binaire de mise à jour, manifeste) ; les modules publics la
-  proposent dans HA. Procédure : [DEPLOIEMENT_PUBLIC.md](DEPLOIEMENT_PUBLIC.md).
+- **Binaire public (D039), mode de déploiement de tous les modules de la maison (D037 révisée) :**
+  une étiquette `v<version>` lance GitHub Actions, qui publie une Release (binaire complet, binaire
+  de mise à jour, manifeste) ; chaque module la propose dans HA (entité Firmware). USB en secours. Procédure : [DEPLOIEMENT_PUBLIC.md](DEPLOIEMENT_PUBLIC.md).
 
 ## Sécurité
 
@@ -607,7 +607,7 @@ message au toucher, après 3 minutes ou à la déconnexion de HA (P2).
 
 | Risque | État |
 |---|---|
-| Clé d'API commune aux modules (R8) | Accepté : la clé d'un module ouvre l'API et l'OTA de tous |
+| Clé d'API commune aux modules de l'atelier (R8) | Accepté : la clé d'un module de test ouvre l'API et l'OTA des autres ; binaire public : une clé par module, donnée par HA |
 | `maj_valeur` accessible à tout détenteur de la clé | Peut changer l'affichage, pas commander un appareil |
 | Réglages de la LED modifiables depuis HA (D027) | Peuvent éteindre la LED ou son alerte ; l'écran montre toujours l'état réel |
 | Message d'accueil (D028) | Texte borné à 240 octets, sans commande ; fermé à la déconnexion de HA |

diff --git a/docs/codex/02_DECISIONS.md b/docs/codex/02_DECISIONS.md
@@ -798,8 +798,8 @@ qui cite la précédente.
 
 ## D037 — Mises à jour du parc depuis Home Assistant
 
-- Date : 4 novembre 2026 — Statut : proposé ; option C choisie par le propriétaire
-  (HAP-R096), à concevoir et tester avant tout code.
+- Date : 4 novembre 2026 — Statut : accepté, **révisé le 5 novembre 2026** (voir
+  « Révision » en fin de décision) ; option C choisie par le propriétaire (HAP-R096).
 - Contexte : le propriétaire prévoit plusieurs modules. Aujourd'hui chaque mise à
   jour part du PC, module par module (`build.ps1 upload`). Le binaire est le même pour
   tous (D012).
@@ -838,6 +838,22 @@ qui cite la précédente.
   de tests ; procédure de publication écrite dans le dépôt (G11).
 - Compatibilité avec D038 : rien de ce qui est conçu ici ne doit empêcher un binaire
   public sans secret (Wi-Fi saisi à l'installation, mêmes entités de mise à jour).
+- **Révision du 5 novembre 2026** (propriétaire, après la maquette D039 : « le
+  binaire privé n'est pas la norme que je veux retenir ») : remplace l'hébergement
+  local et le binaire de production chiffré décrits plus haut.
+  - **Tous les modules de la maison** utilisent le binaire public de D039, publié sur
+    GitHub ; mises à jour par Wi-Fi depuis l'entité « Firmware » de HA. Le binaire ne
+    contient aucun secret : la publication sur Internet n'est plus un problème.
+  - **USB en secours** : première installation, reflash si un module ne se met plus
+    à jour.
+  - **Configurations privées** (`hapanel.yaml`, `hapanel_banc.yaml`, secrets
+    compilés, OTA depuis le PC) : réservées aux modules de test de l'atelier, pour
+    essayer un développement avant de le publier ; jamais sur un module de la maison.
+  - Passage d'un module de production au binaire public : un reflash par USB, Wi-Fi
+    ressaisi par Improv (cahier J14).
+  - Points à trancher restants : installation par bouton seulement ou par une
+    automatisation de HA qui met tout le parc à jour ; vérification nocturne (TODO,
+    mise à jour depuis l'écran).
 
 ## D038 — Orientation : un projet publiable
 
@@ -880,7 +896,8 @@ qui cite la précédente.
 
 ## D039 — Maquette du déploiement public (binaire sans secret, mises à jour depuis HA)
 
-- Date : 4 novembre 2026 — Statut : maquette, branche `feature/poc-deploiement` ;
+- Date : 4 novembre 2026 — Statut : **accepté le 5 novembre 2026** (cahier J OK,
+  J9, J10 et J14 reportés au guide d'installation ; D037 révisée) ; maquette
   demandée par le propriétaire (« valider la faisabilité d'un déploiement de
   nouveaux binaires via une méthode simple depuis HA […] sans avoir à refaire une
   compile en local par l'utilisateur ») ; plusieurs cartes disponibles pour les
@@ -930,17 +947,16 @@ qui cite la précédente.
   téléchargée depuis GitHub en 16 s, Wi-Fi, clé et réglages conservés. Pièges
   (tampons, versions suffixées, vérification au démarrage) : `09_PIEGES.md`. Le
   manifeste désigne le binaire par son étiquette, et non par la dernière Release.
-- Avant fusion : risques au `08`, schémas d'architecture (packages, matrice,
-  compilation, sécurité) régénérés, procédure G11 validée, D037 révisée (hébergement
-  sur GitHub au lieu du réseau local).
+- Avant fusion (faits le 5 novembre 2026) : risques au `08`, schémas d'architecture
+  régénérés, procédure G11 validée, D037 révisée.
 - Limite : un module public n'a pas d'écran d'installation ; sans Wi-Fi, rien ne
   dit à l'utilisateur de se connecter au point d'accès (à concevoir si la maquette
   est retenue).
 
 ## D040 — Nom de la pièce envoyé par le blueprint
 
-- Date : 5 novembre 2026 — Statut : à valider (cahier J12, J13), branche
-  `feature/poc-deploiement`.
+- Date : 5 novembre 2026 — Statut : accepté, validé par le propriétaire (cahier
+  J12, J13 OK le 5 novembre 2026).
 - Contexte : sur le module de la maquette, l'accueil affiche « Séjour » alors que le
   blueprint vise la cuisine (retour du propriétaire, J3). Le mot était écrit dans
   `pages/accueil.yaml` : un réglage propre à la maison dans le firmware, contraire

diff --git a/docs/DEPLOIEMENT_PUBLIC.md b/docs/DEPLOIEMENT_PUBLIC.md
@@ -1,12 +1,14 @@
-# Déploiement public — HAPanel (maquette D039)
+# Déploiement public — HAPanel (D039, D037 révisée)
 
 Procédure du binaire public, sans secret : publication sur GitHub, première
 installation d'un module, adoption dans Home Assistant, mises à jour depuis Home
-Assistant. **État : maquette** (branche `feature/poc-deploiement`), validée par la
-partie J du cahier de tests.
+Assistant. C'est le mode de déploiement de **tous les modules de la maison** (D037
+révisée), validé par la partie J du cahier de tests. Ce document s'adresse au
+développeur ; le guide pas à pas pour un débutant est à venir (TODO, rang 3).
 
-Les modules du propriétaire compilés avec `hapanel.yaml` (secrets compilés) ne sont
-pas concernés : ils se mettent à jour depuis le PC (`tools/build.ps1 upload`).
+Les configurations privées (`hapanel.yaml`, `hapanel_banc.yaml`, secrets compilés,
+mise à jour depuis le PC par `tools/build.ps1 upload`) ne servent plus qu'aux modules
+de test de l'atelier.
 
 ## 1. Publier une version
 
@@ -20,7 +22,7 @@ pas concernés : ils se mettent à jour depuis le PC (`tools/build.ps1 upload`).
    git push origin v0.8.0-dev.1
    ```
 
-3. GitHub Actions lance « Publication » (onglet **Actions** du dépôt, 15 à 25 min) :
+3. GitHub Actions lance « Publication » (onglet **Actions** du dépôt, environ 3 min) :
    il compile `hapanel_public.yaml` et crée la Release `v0.8.0-dev.1` avec
    `hapanel-factory.bin`, `hapanel-ota.bin` et `manifest.json`.
 4. Vérifier la Release : les trois fichiers sont présents, elle est marquée
@@ -61,8 +63,13 @@ couper et rétablir l'alimentation pour rouvrir la fenêtre.
 3. Importer le blueprint et créer l'automatisation du module :
    `docs/CONFIGURATION.md`.
 
-**Si HA demande une clé :** la maquette n'a pas encore confirmé l'envoi automatique
-(cahier J3). Noter ce que HA affiche et ne rien saisir.
+Aucune clé n'a été demandée lors du test du 5 novembre 2026 (cahier J3, J4). **Si HA
+en demande une**, noter ce que HA affiche et ne rien saisir.
+
+**Module qui tournait avec le binaire privé** (passage au binaire public) : refaire
+le § 2 en acceptant l'effacement ; le Wi-Fi est à ressaisir. Si HA crée un nouvel
+appareil, rouvrir l'automatisation du module et y choisir le nouvel appareil
+(cahier J14).
 
 ## 4. Mettre à jour un module
 
